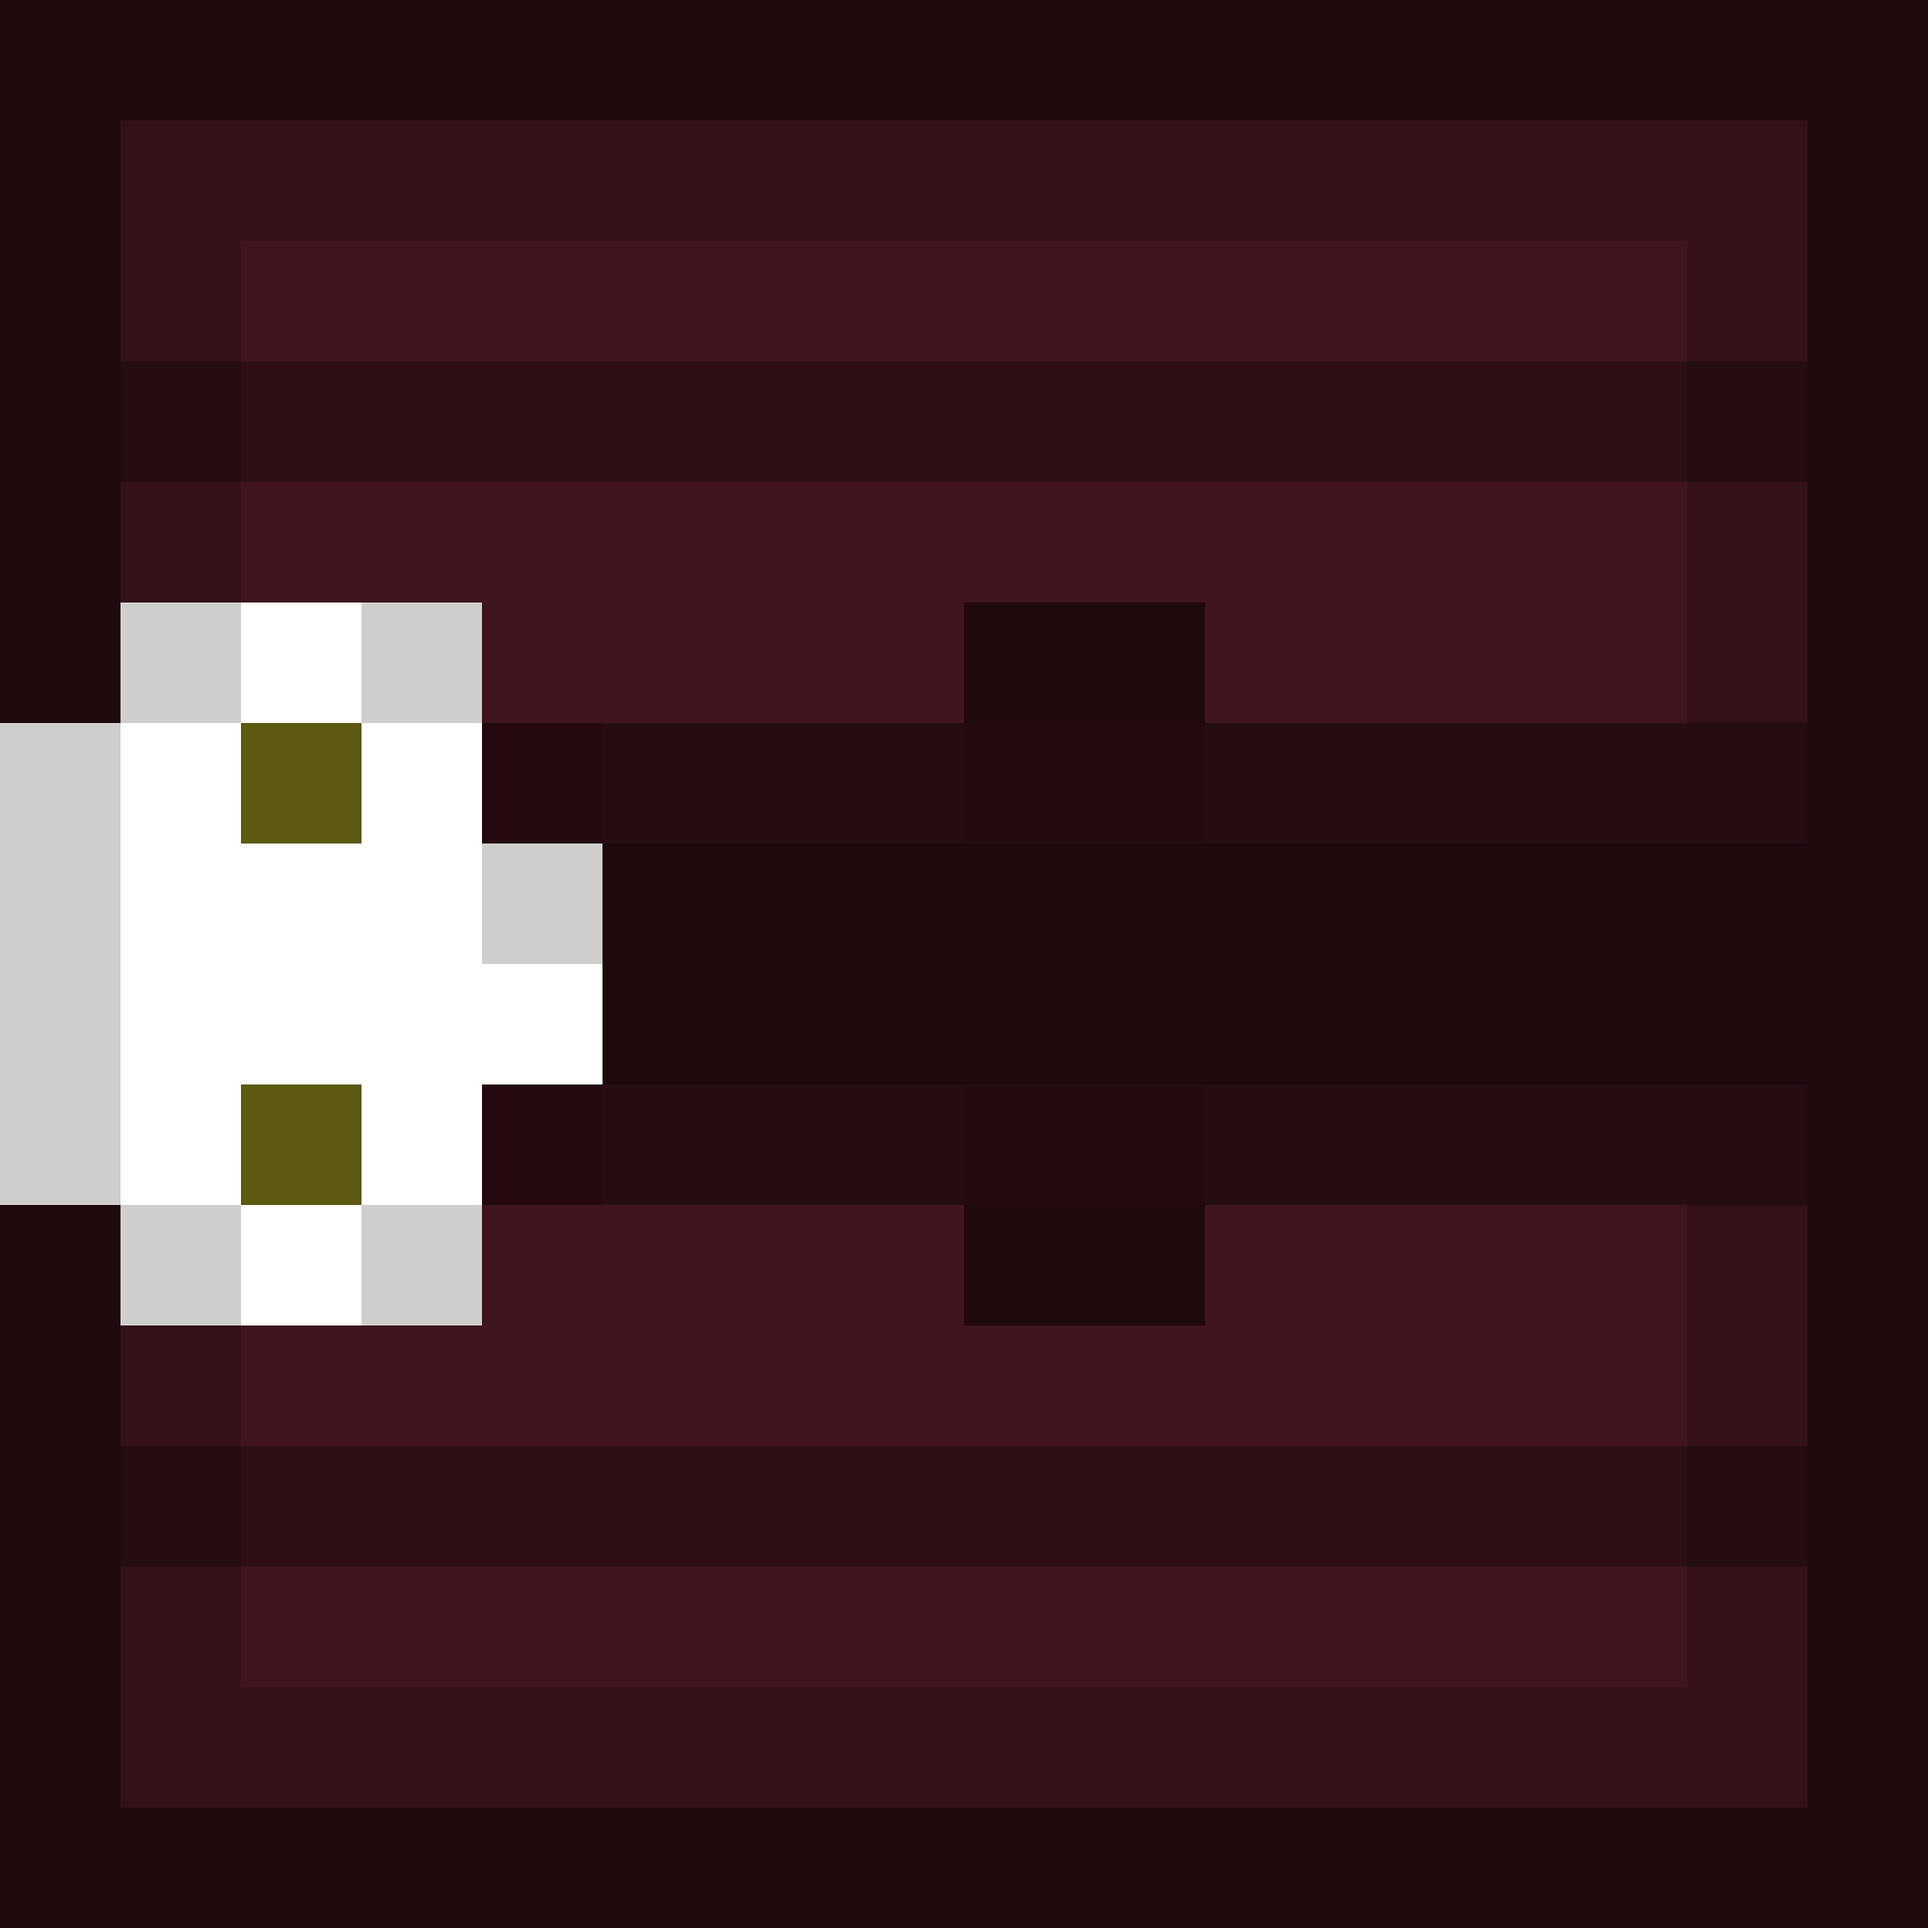
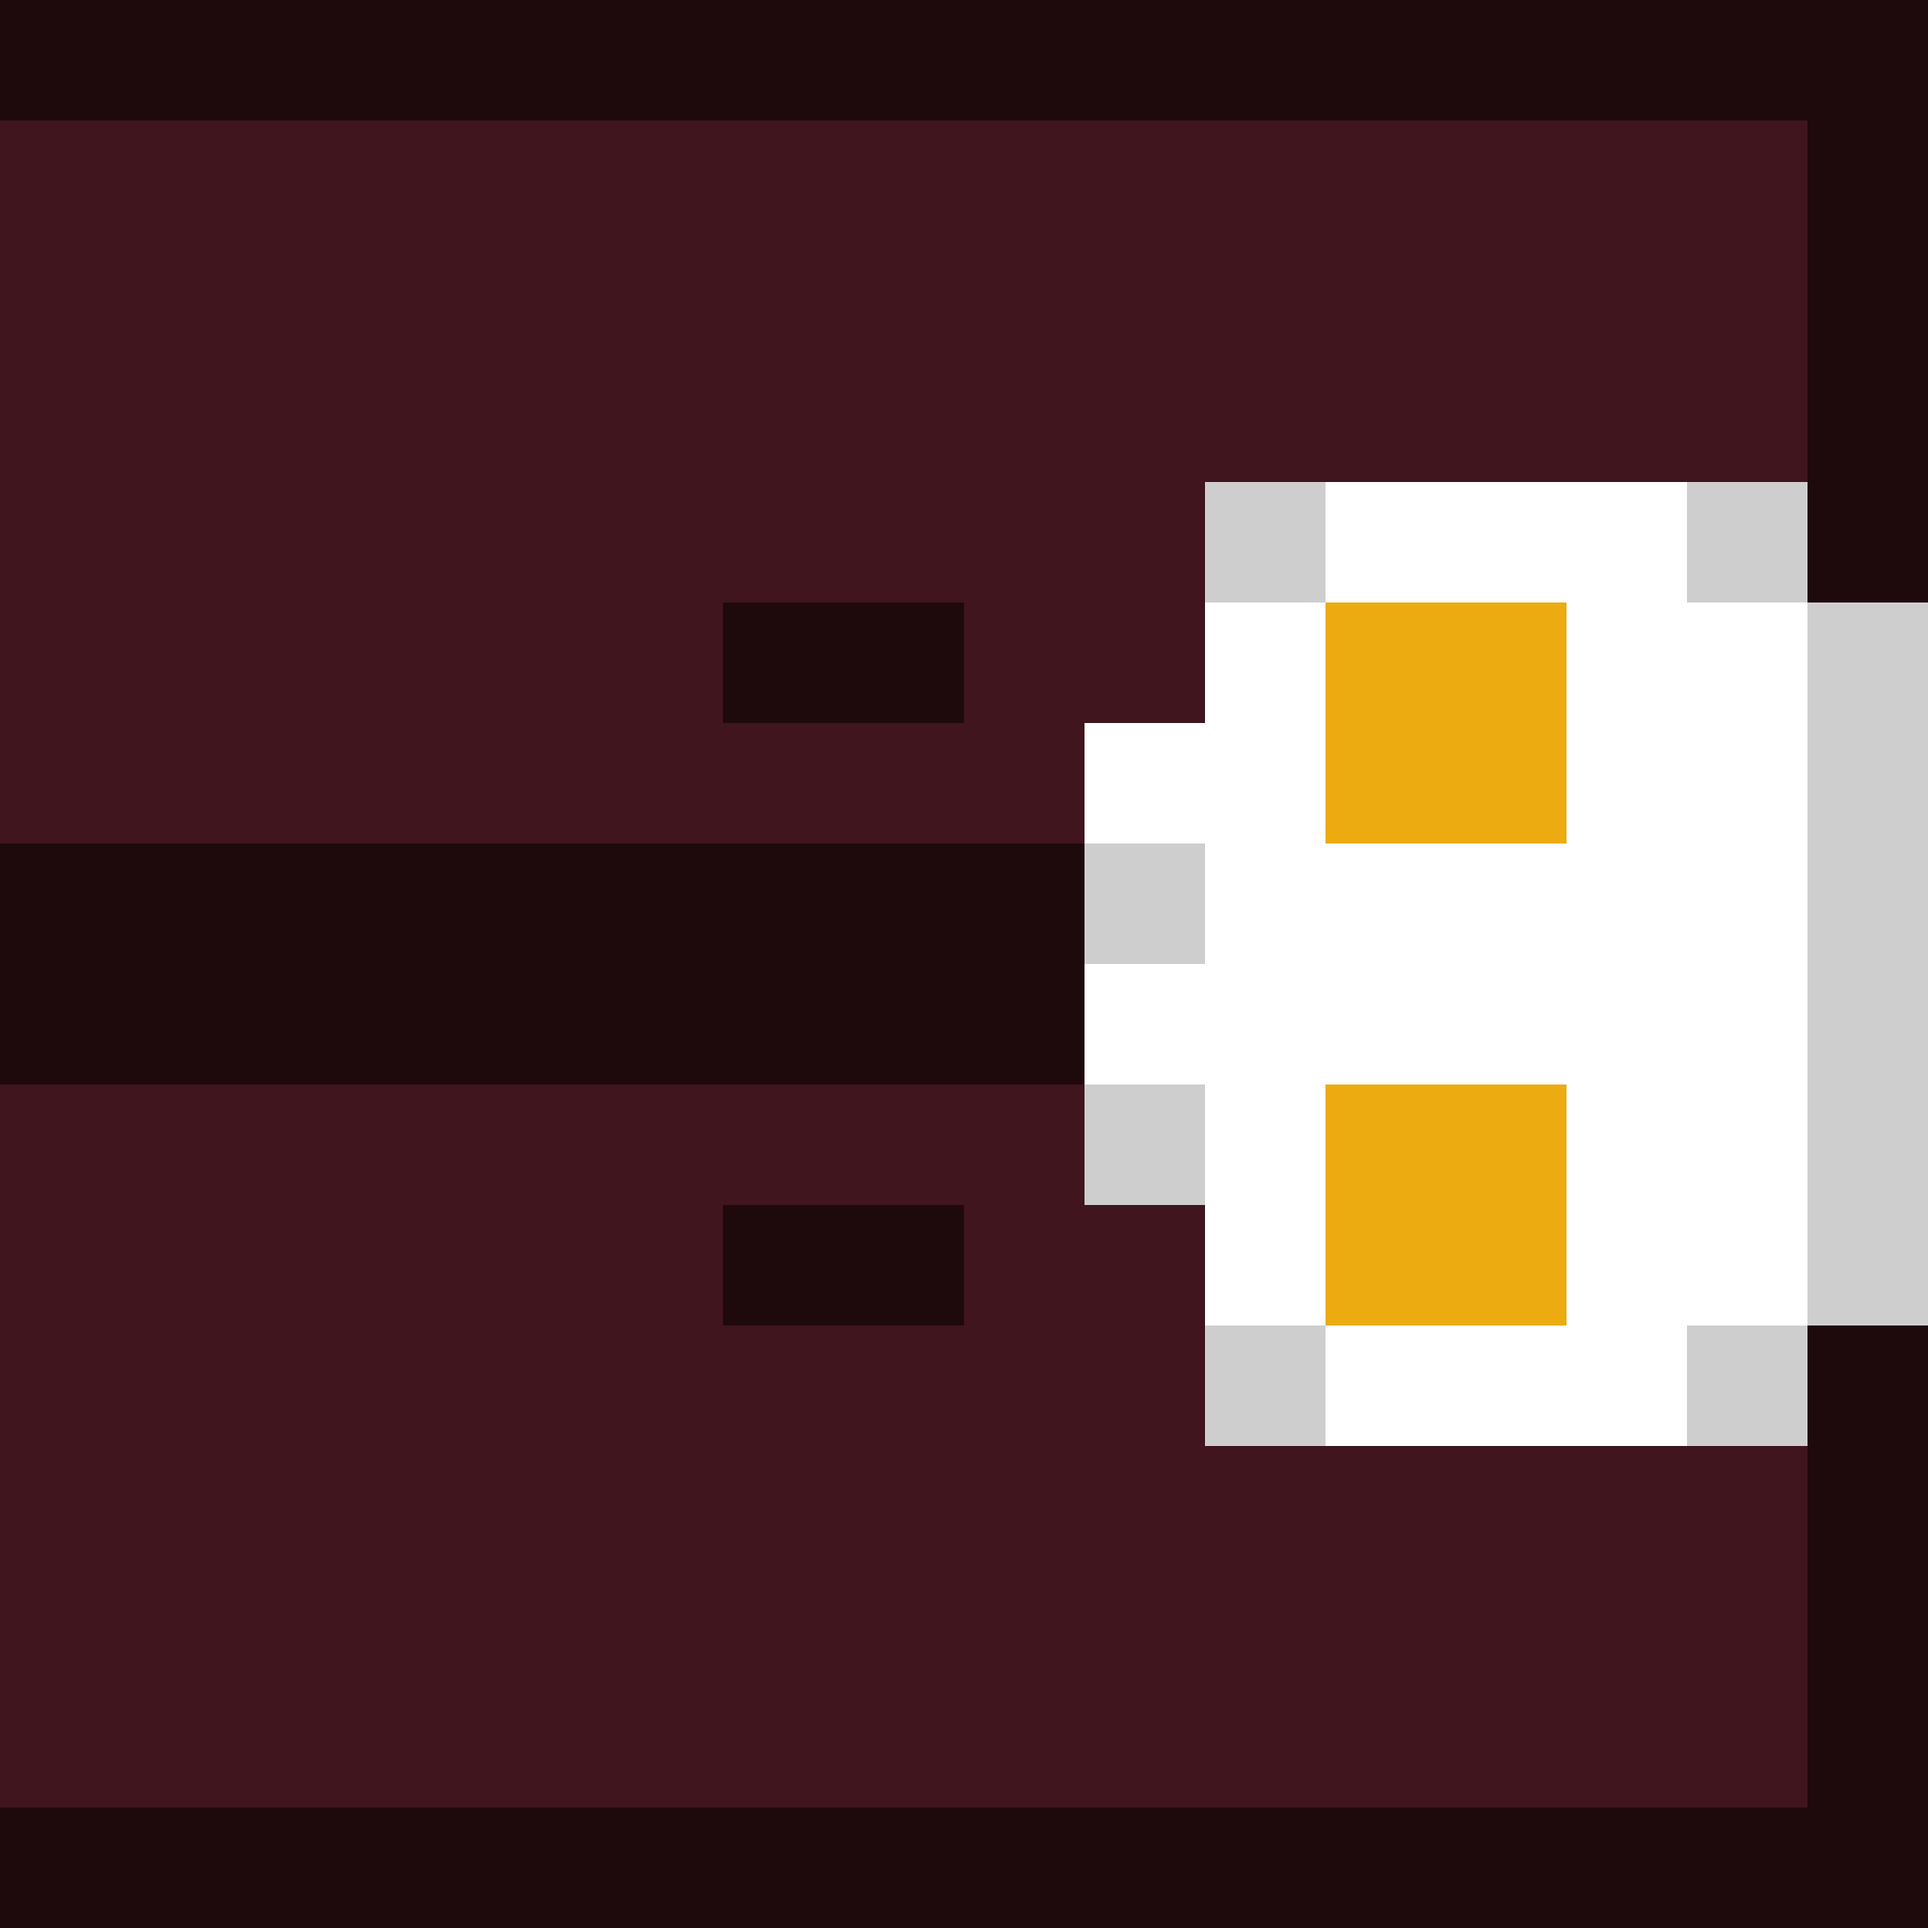
-Assets toegevoegd

diff --git a/src/Main/AssetSetter.java b/src/Main/AssetSetter.java
@@ -15,11 +15,11 @@ public class AssetSetter {
 
     public void setObject() {
         // Objecten
-        gp.obj[1] = new OBJ_KeyY(gp);
+        gp.obj[1] = new OBJ_KeyR(gp);
         gp.obj[1].worldX = 58 * gp.tileSize;
         gp.obj[1].worldY = 41 * gp.tileSize;
 
-        gp.obj[2] = new OBJ_KeyB(gp);
+        gp.obj[2] = new OBJ_KeyY(gp);
         gp.obj[2].worldX = 38 * gp.tileSize;
         gp.obj[2].worldY = 11 * gp.tileSize;
 
@@ -27,19 +27,19 @@ public class AssetSetter {
         gp.obj[3].worldX = 38 * gp.tileSize;
         gp.obj[3].worldY = 33 * gp.tileSize;
 
-        gp.obj[4] = new OBJ_DoorY(gp);
+        gp.obj[4] = new OBJ_DoorB(gp);
         gp.obj[4].worldX = 30 * gp.tileSize;
         gp.obj[4].worldY = 41 * gp.tileSize;
 
-        gp.obj[5] = new OBJ_DoorB(gp);
+        gp.obj[5] = new OBJ_DoorY(gp);
         gp.obj[5].worldX = 46 * gp.tileSize;
         gp.obj[5].worldY = 41 * gp.tileSize;
 
-        gp.obj[6] = new OBJ_Chest(gp);
+        gp.obj[6] = new OBJ_DoorR(gp);
         gp.obj[6].worldX = 38 * gp.tileSize;
-        gp.obj[6].worldY = 17 * gp.tileSize;
+        gp.obj[6].worldY = 54 * gp.tileSize;
 
-        gp.obj[7] = new OBJ_KeyR(gp);
+        gp.obj[7] = new OBJ_KeyG(gp);
         gp.obj[7].worldX = 15 * gp.tileSize;
         gp.obj[7].worldY = 41 * gp.tileSize;
     }

diff --git a/src/Entity/NPC_1.java b/src/Entity/NPC_1.java
@@ -18,14 +18,14 @@ public class NPC_1 extends Entity {
 
     public void getImage() {
         // Getting the right image for the right movement
-        Up1 = setup("NPC/GrimmU", gp.tileSize, gp.tileSize);
-        Up2 = setup("NPC/GrimmU", gp.tileSize, gp.tileSize);
-        Down1 = setup("NPC/GrimmD", gp.tileSize, gp.tileSize);
-        Down2 = setup("NPC/GrimmD", gp.tileSize, gp.tileSize);
-        Left1 = setup("NPC/GrimmL", gp.tileSize, gp.tileSize);
-        Left2 = setup("NPC/GrimmL", gp.tileSize, gp.tileSize);
-        Right1 = setup("NPC/GrimmR", gp.tileSize, gp.tileSize);
-        Right2 = setup("NPC/GrimmR", gp.tileSize, gp.tileSize);
+        Up1 = setup("NPC/NPC1WU1", gp.tileSize, gp.tileSize);
+        Up2 = setup("NPC/NPC1WU2", gp.tileSize, gp.tileSize);
+        Down1 = setup("NPC/NPC1WD1", gp.tileSize, gp.tileSize);
+        Down2 = setup("NPC/NPC1WD2", gp.tileSize, gp.tileSize);
+        Left1 = setup("NPC/NPC1WL1", gp.tileSize, gp.tileSize);
+        Left2 = setup("NPC/NPC1WL2", gp.tileSize, gp.tileSize);
+        Right1 = setup("NPC/NPC1WR1", gp.tileSize, gp.tileSize);
+        Right2 = setup("NPC/NPC1WR2", gp.tileSize, gp.tileSize);
     }
 
     public void setDialogue() {

diff --git a/src/Entity/Player.java b/src/Entity/Player.java
@@ -232,7 +232,7 @@ public class Player extends Entity {
                     gp.obj[index] = null;
                     gp.ui.showMessage("You got a key!");
                     break;
-                case "KeyB":
+                case "KeyG":
                     hasKeyB++;
                     gp.obj[index] = null;
                     gp.ui.showMessage("You got a key!");
@@ -258,10 +258,10 @@ public class Player extends Entity {
                         hasKeyB--; }
                     else { gp.ui.showMessage("You need a key!"); }
                     break;
-                case "Chest":
+                case "DoorR":
                     if(hasKeyR > 0) {
                         gp.obj[index] = null;
-                        gp.ui.showMessage("You opened the chest!");
+                        gp.ui.showMessage("You opened the final door!");
                         hasKeyR--;
                         gp.ui.gameFinished = true; }
                     else { gp.ui.showMessage("You need a key!"); }

diff --git a/src/tile/TileManager.java b/src/tile/TileManager.java
@@ -19,7 +19,7 @@ public class TileManager {
 
     public TileManager(GamePanel gp) {
         this.gp = gp;
-        tile = new Tile[20];
+        tile = new Tile[25];
         mapTileNum = new int[gp.maxWorldCol][gp.maxWorldRow];
 
         getTileImage();
@@ -39,6 +39,16 @@ public class TileManager {
         setup(9, "BridgeEMO", false);
         setup(10, "BridgeEML", false);
         setup(11, "BridgeEMR", false);
+        setup(12, "Carpet", false);
+        setup(13, "Cushion", true);
+        setup(14, "Furniture1", true);
+        setup(15, "Furniture2", true);
+        setup(16, "FloorStone", false);
+        setup(17, "Metal1", true);
+        setup(18, "Metal2", true);
+        setup(19, "Pillows", true);
+        setup(20, "Rug1", false);
+        setup(21, "Rug2", false);
     }
 
     public void setup(int index, String imageName, boolean collision) {

diff --git a/src/Main/EventHandler.java b/src/Main/EventHandler.java
@@ -44,11 +44,11 @@ public class EventHandler {
         }
 
         if(canTouchEvent) {
-            if(hit(38, 54, "Down")) {
-                damagePit(37,53, gp.dialogueState);
+            if(hit(38, 56, "Down")) {
+                damagePit(37,57, gp.dialogueState);
             }
-            if(hit(39,54,"Down")) {
-                healingPool(38,53,gp.dialogueState);
+            if(hit(39,56,"Down")) {
+                healingPool(38,57,gp.dialogueState);
             }
         }
     }

diff --git a/src/objects/OBJ_DoorR.java b/src/objects/OBJ_DoorR.java
@@ -1,0 +1,16 @@
+package objects;
+
+import Main.GamePanel;
+import Entity.Entity;
+
+public class OBJ_DoorR extends Entity {
+
+
+    public OBJ_DoorR(GamePanel gp) {
+        super(gp);
+
+        name = "DoorR";
+        Down1 = setup("objects/DoorR", gp.tileSize, gp.tileSize);
+        collision = true;
+    }
+}

diff --git a/src/Entity/Entity.java b/src/Entity/Entity.java
@@ -65,7 +65,7 @@ public class Entity {
         dialogueIndex++;
 
         if (dialogueIndex == 21) {
-            gp.player.hasKeyG++;
+            gp.player.hasKeyB++;
             gp.ui.showMessage("You got a key!"); }
 
         switch (gp.player.direction) {
